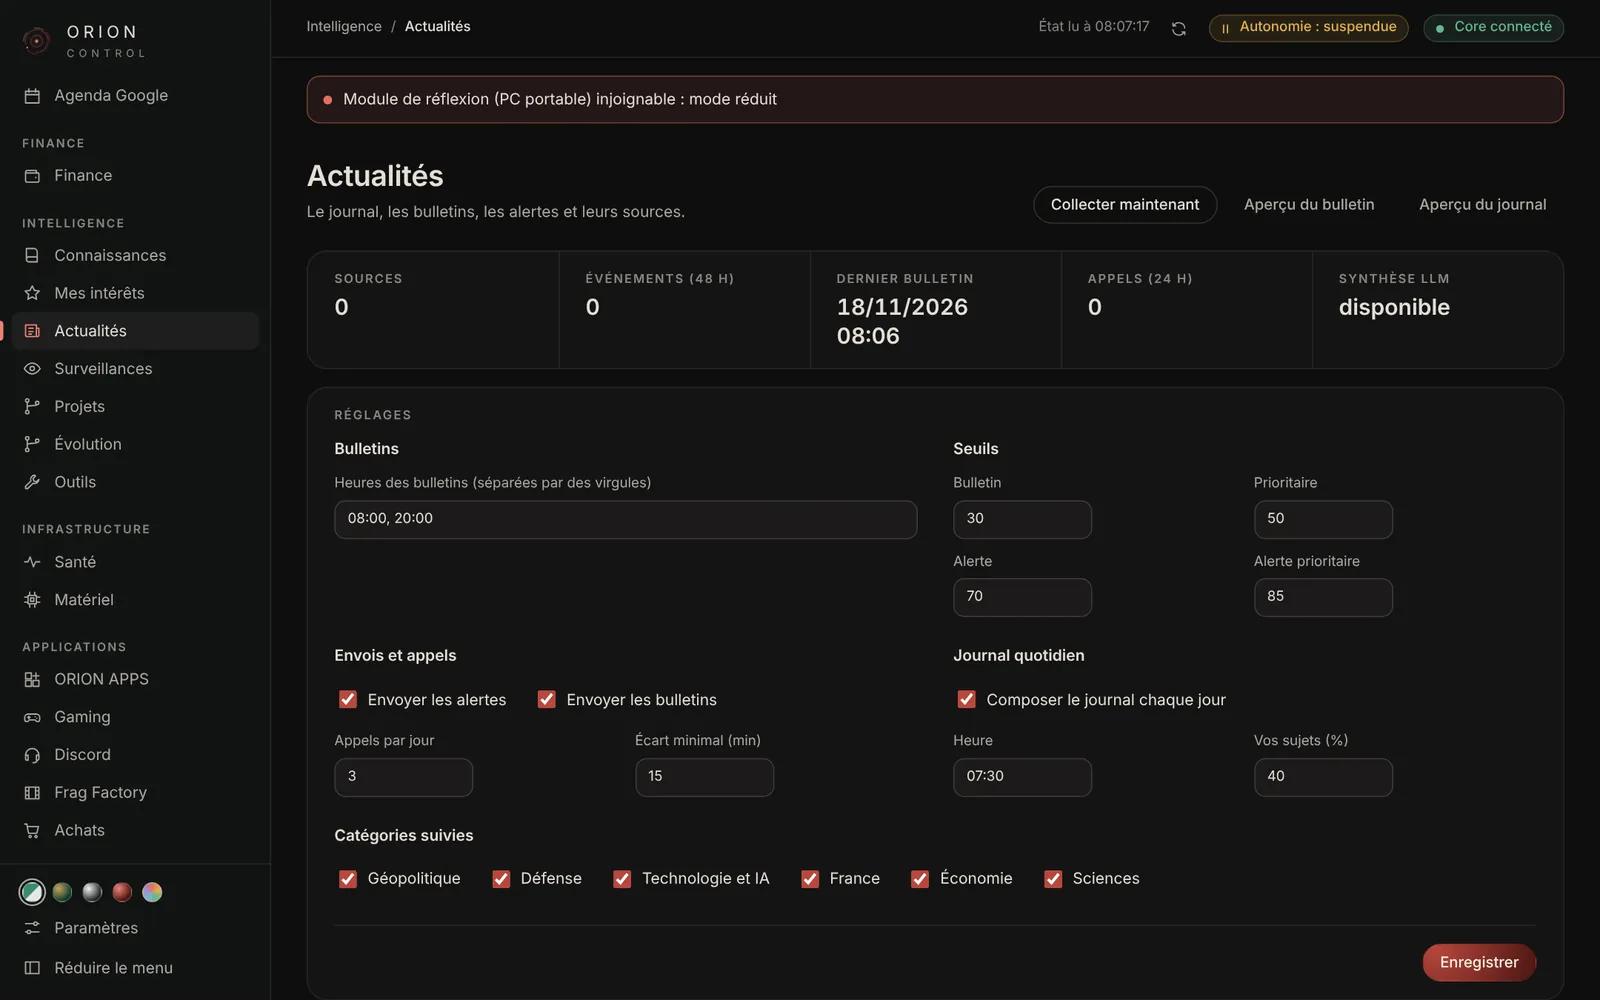
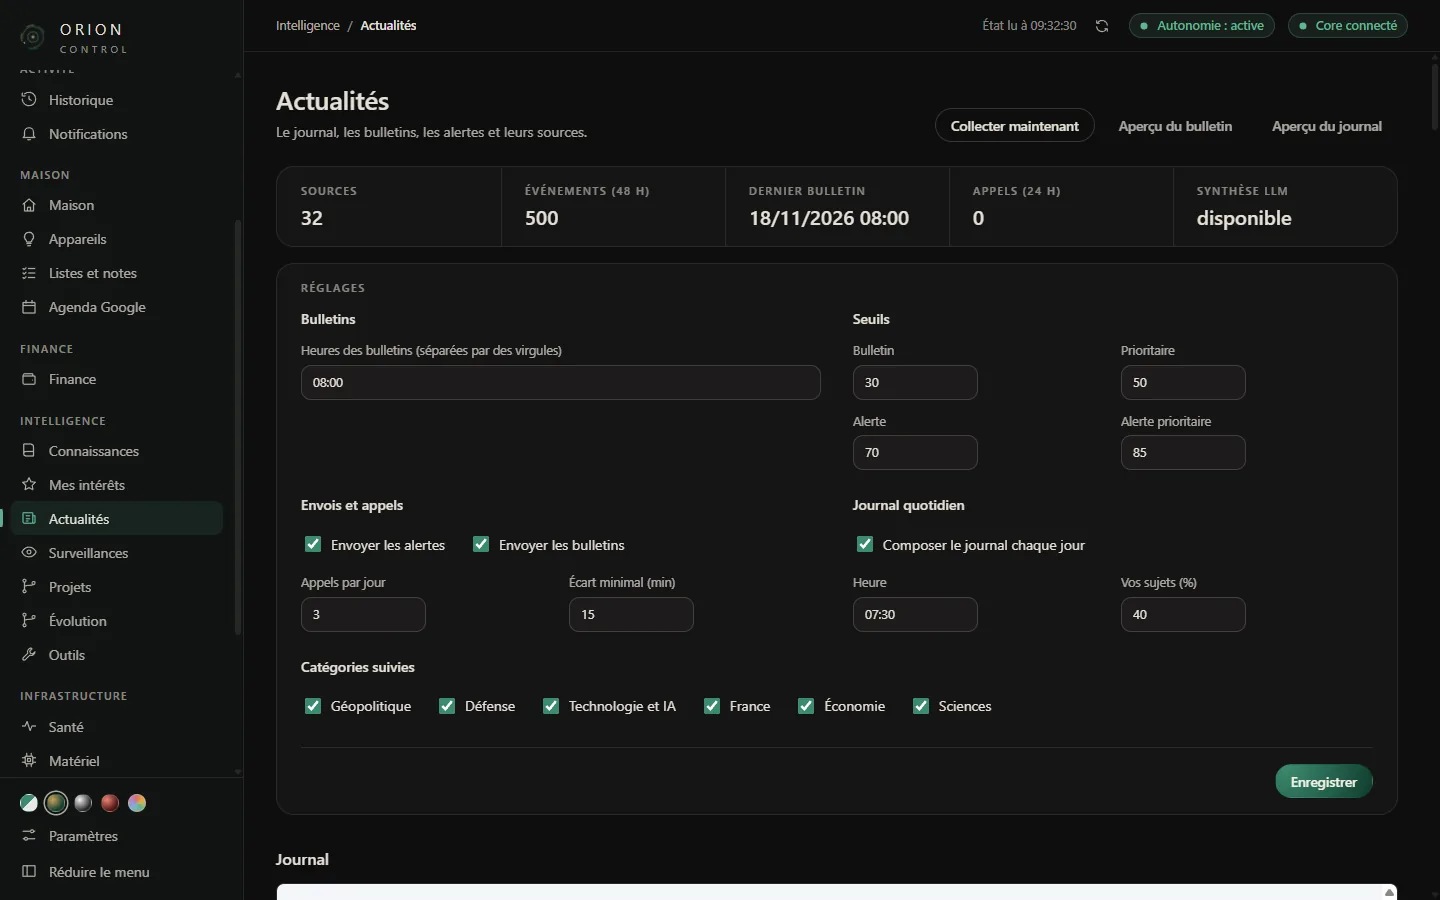
Étude de cas ORION : captures réelles en production (ORION Control et terminal)
- ORION Control : 7 pages capturées sur la production (tableau de bord, autonomie,
  santé, matériel, outils, actualités, évolution), sans donnée personnelle
- Terminal ORION OS « BUREAU » : panneau, visage au repos et réglages, capturés par adb
  (nom du réseau Wi-Fi et adresses masqués)
- Galerie du terminal en paysage ; légendes mises à jour

diff --git a/public/assets/orion.js b/public/assets/orion.js
@@ -4,16 +4,16 @@
   const $$ = (s, el = document) => [...el.querySelectorAll(s)];
   const reducedMotion = matchMedia("(prefers-reduced-motion: reduce)");
 
-  // Captures réelles d'ORION Control : déposer les images dans public/assets/orion/ puis les lister ici.
-  // Exemple : { src: "/assets/orion/tableau-de-bord.webp", alt: "Tableau de bord d'ORION Control", caption: "Tableau de bord" }
-  // Captures du 18 novembre 2026 : la vraie application, branchée sur un vrai Core V3 lancé sur une installation neuve
-  // (aucune donnée personnelle, ni GPU ni modèle de langage : ORION y fonctionne en mode réduit).
+  // Captures réelles d'ORION Control en production (18 novembre 2026), pages sans donnée personnelle.
+  // Pour en ajouter : déposer l'image dans public/assets/orion/ puis la lister ici.
   const SHOTS = [
-    { src: "/assets/orion/control-tableau-de-bord.webp", alt: "ORION Control : tableau de bord avec l'état d'ORION, les services, le programme et l'activité récente", caption: "Tableau de bord : état d'ORION, services, points à surveiller, activité récente", w: 1600, h: 1000 },
-    { src: "/assets/orion/control-autonomie.webp", alt: "ORION Control : page Autonomie avec l'interrupteur, l'arrêt d'urgence, le registre d'actions et les ressources", caption: "Autonomie : interrupteur, arrêt d'urgence, registre chaîné et son empreinte", w: 1600, h: 1000 },
-    { src: "/assets/orion/control-sante.webp", alt: "ORION Control : page Santé avec les ressources surveillées par SENTINEL et les incidents", caption: "Santé : ressources surveillées par SENTINEL, incidents en cours", w: 1600, h: 1000 },
-    { src: "/assets/orion/control-outils.webp", alt: "ORION Control : liste des 146 outils avec leur domaine, leur niveau de risque et leur disponibilité", caption: "Outils : 146 outils, chacun avec son niveau de risque", w: 1600, h: 1000 },
-    { src: "/assets/orion/control-actualites.webp", alt: "ORION Control : réglages du module NEWS, heures des bulletins, seuils et catégories suivies", caption: "Actualités : réglages de NEWS (bulletins, seuils, catégories)", w: 1600, h: 1000 },
+    { src: "/assets/orion/control-tableau-de-bord.webp", alt: "ORION Control : tableau de bord, ORION opérationnelle, services en ligne, programme et activité récente", caption: "Tableau de bord : ORION opérationnelle, services, programme, activité récente", w: 1440, h: 900 },
+    { src: "/assets/orion/control-autonomie.webp", alt: "ORION Control : autonomie active, registre de 18 472 lignes au chaînage intact, ressources", caption: "Autonomie : interrupteur, arrêt d'urgence, registre de 18 472 lignes au chaînage intact", w: 1440, h: 900 },
+    { src: "/assets/orion/control-sante.webp", alt: "ORION Control : santé des ressources surveillées par SENTINEL, disponibilité sur 7 jours", caption: "Santé : ressources surveillées par SENTINEL et leur disponibilité sur 7 jours", w: 1440, h: 900 },
+    { src: "/assets/orion/control-materiel.webp", alt: "ORION Control : matériel du Core et des PC, charge, mémoire, disques et températures", caption: "Matériel : le Core et les PC tels qu'ORION les lit", w: 1440, h: 900 },
+    { src: "/assets/orion/control-outils.webp", alt: "ORION Control : liste des 197 outils avec domaine, niveau de risque et disponibilité", caption: "Outils : 197 outils, chacun avec son niveau de risque", w: 1440, h: 900 },
+    { src: "/assets/orion/control-actualites.webp", alt: "ORION Control : module NEWS avec 32 sources, 500 événements, bulletins et réglages", caption: "Actualités : 32 sources, bulletins et seuils de NEWS", w: 1440, h: 900 },
+    { src: "/assets/orion/control-evolution.webp", alt: "ORION Control : module EVOLVE, niveau, anomalies, correctifs et propositions", caption: "Évolution : niveau d'EVOLVE, anomalies et propositions", w: 1440, h: 900 },
   ];
 
   // Le visage d'ORION, capturé dans ses quatre états (page réelle orion/face/static).
@@ -268,10 +268,12 @@
   }
 
   /* ---------- Terminal : captures agrandissables ---------- */
-  $$(".o-phone__shot").forEach((b) => b.addEventListener("click", () => window.Lightbox && window.Lightbox.open([
-    { src: "/assets/orion/terminal-ecoute.webp", alt: "Visage d'ORION sur le terminal, en écoute", caption: "Terminal : ORION à l'écoute" },
-    { src: "/assets/orion/terminal-intimite.webp", alt: "Visage d'ORION sur le terminal avec le bandeau Intimité", caption: "Terminal : mode intimité, ORION n'écoute pas" },
-  ], Number(b.dataset.i), b)));
+  const TERMINAL = [
+    { src: "/assets/orion/terminal-panneau.webp", alt: "Panneau du terminal ORION OS : lumières, mode intimité, volume, écran et réglages", caption: "Le panneau, ouvert d'un toucher sur le visage" },
+    { src: "/assets/orion/terminal-visage.webp", alt: "Visage d'ORION en plein écran sur le terminal, en paysage", caption: "Au repos : le visage d'ORION en plein écran" },
+    { src: "/assets/orion/terminal-reglages.webp", alt: "Réglages du terminal : appairage au Core, Wi-Fi, son et luminosité (réseau masqué)", caption: "Les réglages : appairage, Wi-Fi, son, luminosité (réseau masqué)" },
+  ];
+  $$(".o-phone__shot").forEach((b) => b.addEventListener("click", () => window.Lightbox && window.Lightbox.open(TERMINAL, Number(b.dataset.i), b)));
 
   /* ---------- Constellation : liens du Core vers chaque élément ---------- */
   const sky = $("#skyLines");

diff --git a/public/orion.html b/public/orion.html
@@ -427,7 +427,7 @@
 
         <div class="o-shots" id="controlShots" hidden>
           <h3 class="sub-title">Captures de l'application</h3>
-          <p class="o-shots__intro">La vraie application, branchée sur un vrai Core V3 lancé pour l'occasion sur une installation neuve : aucune donnée personnelle, ni GPU ni modèle de langage. ORION y fonctionne donc en mode réduit, ce que l'interface signale en rouge.</p>
+          <p class="o-shots__intro">L'application réelle, branchée sur ORION en production, le 18 novembre 2026. Seules les pages sans donnée personnelle sont montrées.</p>
           <div class="o-shots__grid" id="controlShotsGrid"></div>
         </div>
       </div>
@@ -452,7 +452,8 @@
               <ul class="o-os__list">
                 <li>Affiche l'état d'ORION et ses notifications, en direct</li>
                 <li>Pilote les appareils qui lui sont attribués : lumières (luminosité, teinte), volume</li>
-                <li>Coupe l'écoute à la demande : le mode intimité tient après un redémarrage</li>
+                <li>Coupe l'écoute à la demande : le mode intimité affiche l'état prouvé de chaque micro</li>
+                <li>Un toucher sur le visage ouvre le panneau, qui se referme seul au bout d'un délai</li>
                 <li>N'exécute aucun modèle : toute l'intelligence reste sur le Core</li>
               </ul>
             </div>
@@ -473,18 +474,22 @@
           </p>
         </div>
 
-        <figure class="o-phone reveal" aria-label="Le visage d'ORION sur un terminal ORION OS">
-          <div class="o-phone__pair">
-            <button class="o-phone__shot" type="button" data-i="0" aria-label="Agrandir : terminal, ORION à l'écoute">
-              <span class="o-phone__body"><img src="/assets/orion/terminal-ecoute.webp" alt="Visage d'ORION au format du terminal, en écoute" width="720" height="1480" loading="lazy" decoding="async" /></span>
-              <span class="o-phone__label">À l'écoute</span>
+        <figure class="o-term reveal" aria-label="Captures du terminal ORION OS « BUREAU »">
+          <button class="o-phone__shot o-term__main" type="button" data-i="0" aria-label="Agrandir : le panneau du terminal">
+            <span class="o-term__device"><img src="/assets/orion/terminal-panneau.webp" alt="Panneau du terminal ORION OS : lumières, mode intimité, volume, écran et réglages" width="1560" height="720" loading="lazy" decoding="async" /></span>
+            <span class="o-phone__label">Le panneau, ouvert d'un toucher sur le visage</span>
+          </button>
+          <div class="o-term__side">
+            <button class="o-phone__shot" type="button" data-i="1" aria-label="Agrandir : le visage au repos">
+              <span class="o-term__device"><img src="/assets/orion/terminal-visage.webp" alt="Visage d'ORION en plein écran sur le terminal, en paysage" width="1560" height="720" loading="lazy" decoding="async" /></span>
+              <span class="o-phone__label">Au repos : le visage</span>
             </button>
-            <button class="o-phone__shot" type="button" data-i="1" aria-label="Agrandir : terminal en mode intimité">
-              <span class="o-phone__body"><img src="/assets/orion/terminal-intimite.webp" alt="Visage d'ORION au format du terminal, avec le bandeau Intimité : ORION n'écoute pas" width="720" height="1480" loading="lazy" decoding="async" /></span>
-              <span class="o-phone__label">Mode intimité</span>
+            <button class="o-phone__shot" type="button" data-i="2" aria-label="Agrandir : les réglages du terminal">
+              <span class="o-term__device"><img src="/assets/orion/terminal-reglages.webp" alt="Réglages du terminal : appairage au Core, Wi-Fi, son et luminosité, réseau masqué" width="1560" height="720" loading="lazy" decoding="async" /></span>
+              <span class="o-phone__label">Les réglages</span>
             </button>
           </div>
-          <figcaption>Le visage tel que le Core le sert au terminal (page <code>?terminal=1</code>), capturé au format du téléphone. Les commandes natives d'ORION OS (lumières, volume) ne sont pas montrées ici.</figcaption>
+          <figcaption>Captures prises par adb sur le terminal « BUREAU » (Galaxy A20e sous ORION OS), le 18 novembre 2026. Le nom du réseau Wi-Fi et les adresses sont masqués.</figcaption>
         </figure>
       </div>
     </section>

diff --git a/public/assets/orion.css b/public/assets/orion.css
@@ -600,3 +600,23 @@ code { font-family: var(--mono); font-size: 0.88em; padding: 1px 6px; border-rad
   .o-face { padding: 20px; gap: 24px; }
   .o-face__stage { max-width: 320px; }
 }
+
+/* ---------- Terminal : captures réelles en paysage ---------- */
+.o-os { grid-template-columns: 1fr; }
+.o-term { margin: 8px 0 0; display: grid; grid-template-columns: minmax(0, 1.7fr) minmax(0, 1fr); gap: 18px; align-items: start; }
+.o-term__side { display: grid; gap: 18px; }
+.o-term .o-phone__shot { width: 100%; justify-items: stretch; text-align: left; }
+.o-term__device {
+  display: block; padding: 8px; border-radius: 22px; background: linear-gradient(160deg, #2a2f2c, #121513);
+  border: 1px solid rgba(244, 239, 228, 0.16); box-shadow: 0 24px 50px -26px rgba(0, 0, 0, 0.8);
+  transition: transform 0.35s var(--ease), border-color 0.25s;
+}
+.o-term__device img { display: block; width: 100%; height: auto; border-radius: 15px; }
+.o-term .o-phone__label { padding-left: 4px; }
+.o-term figcaption { grid-column: 1 / -1; max-width: none; margin: 0; text-align: left; font-size: 0.82rem; color: var(--faint); }
+@media (hover: hover) { .o-term .o-phone__shot:hover .o-term__device { transform: translateY(-3px); border-color: var(--gold); } }
+@media (max-width: 760px) {
+  .o-term { grid-template-columns: 1fr; }
+  .o-term__device { padding: 5px; border-radius: 14px; }
+  .o-term__device img { border-radius: 10px; }
+}
